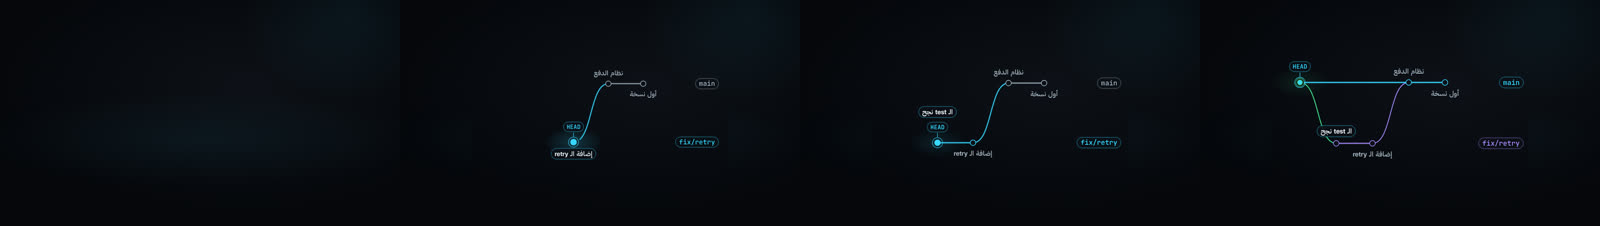
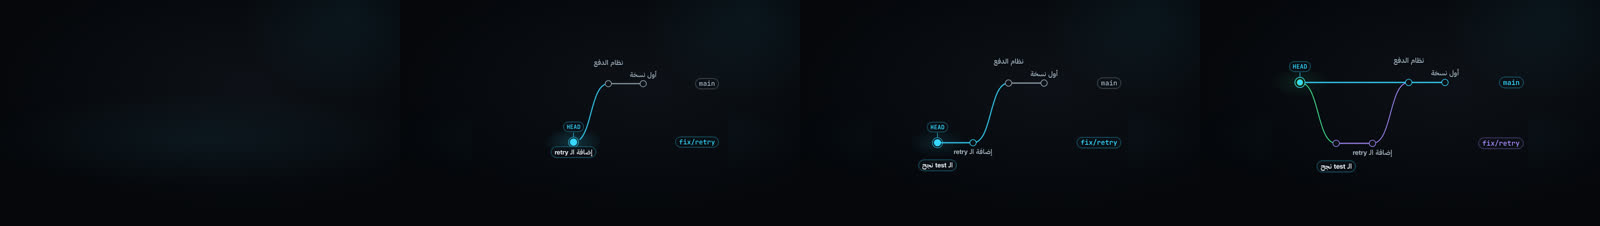
P7 struct-b: GitGraph finished (messages on outer lane side in two alternating rows, larger nodes; snap PASS det 0 qa 0, baselines pending-critic; perf lite 0.056 / standard 0.071 / hero 0.066 box s/frame; Arabic QA PASS)
Claude-Session: https://claude.ai/code/session_01VrU9wxU8GmuhdhWAAHnnQ8

diff --git a/studio/src/components/GitGraph/GitGraph.tsx b/studio/src/components/GitGraph/GitGraph.tsx
@@ -81,7 +81,12 @@ export const GitGraphView: React.FC<DcProps<Props>> = ({props, ctx}) => {
   const bandH = h / nl;
   const yOf = (k: number) => (k + 0.5) * bandH;
   const lblH = Math.round(SIZE.label * 1.7);
-  const roomy = bandH >= 2 * (lblH + 34) + 28 && 2 * colW - 40 >= 150;
+  // messages sit on the OUTER side of their lane (away from the fork / merge curves, which run between lanes); same-lane
+  // neighbours alternate near / far rows so two adjacent messages never overlap. Needs two rows of room above or below.
+  const roomy = bandH / 2 >= 22 + 2 * lblH + 4 && 2 * colW - 40 >= 150;
+  const laneIdx = new Map<string, number>();
+  tl.nodes.filter((n) => n.msg).forEach((n) => laneIdx.set(n.id, tl.nodes.filter((m) => m.msg && m.lane === n.lane).indexOf(n)));
+  const sideUp = (n: GNode) => (2 * n.lane < nl - 1 ? true : 2 * n.lane > nl - 1 ? false : n.col % 2 === 1);
   const k = 1 + ctx.mod.glow;
   const arrive = presetFrames('arrive', ctx.fps);
   const morph = presetFrames('morph', ctx.fps, true);
@@ -131,8 +136,8 @@ export const GitGraphView: React.FC<DcProps<Props>> = ({props, ctx}) => {
           const flash = n.merge ? 1 - prog(t, n.born + arrive, morph) : 0;
           return (
             <g key={n.id} transform={`translate(${x.toFixed(1)} ${y.toFixed(1)}) scale(${(0.5 + 0.5 * pop).toFixed(3)})`} opacity={Math.min(1, pop * 1.5)}>
-              {n.merge ? <Dot x={0} y={0} r={19} color={C.ok} fx={ctx.fx} k={0.5 + flash} ring={2} /> : null}
-              <Dot x={0} y={0} r={n.merge ? 11 : 13} color={n.merge ? C.ok : col} fill={n === newest ? col : undefined} fx={ctx.fx} k={(n === newest ? 1 : 0.45) * k} ring={3} />
+              {n.merge ? <Dot x={0} y={0} r={22} color={C.ok} fx={ctx.fx} k={0.5 + flash} ring={2} /> : null}
+              <Dot x={0} y={0} r={n.merge ? 13 : 15} color={n.merge ? C.ok : col} fill={n === newest ? col : undefined} fx={ctx.fx} k={(n === newest ? 1 : 0.45) * k} ring={3} />
             </g>
           );
         })}
@@ -177,9 +182,11 @@ export const GitGraphView: React.FC<DcProps<Props>> = ({props, ctx}) => {
         const lp = prog(t, n.born, presetFrames('label', ctx.fps));
         const x = xOf(n.col);
         const y = yOf(n.lane);
-        const up = roomy ? n.col % 2 === 1 : n.lane > 0 || nl === 1;
+        const up = sideUp(n);
+        const row = roomy ? (laneIdx.get(n.id) ?? 0) % 2 : 0;
         const pl = placeLabel(x, roomy ? 2 * colW - 40 : Math.min(w * 0.4, 4 * colW), w);
-        const off = up ? (hp && Math.abs(hp.x - x) < 4 && n.lane === headLane ? 64 + lblH : 30) : 30;
+        const headHere = !!hp && Math.abs(hp.x - x) < 4 && n.lane === headLane;
+        const off = (up && headHere ? 64 + lblH : 22) + row * (lblH + 4);
         return (
           <Lbl
             key={`m${i}`}

diff --git a/docs/p7/catalog_status/struct-b.md b/docs/p7/catalog_status/struct-b.md
@@ -1,0 +1,5 @@
+# P7 catalog status: group struct-b (Structure & flow)
+
+| Component | Status | Note |
+|---|---|---|
+| GitGraph | implemented | snap PASS det 0 qa 0 (pending-critic); perf box s/frame lite 0.056 / standard 0.071 / hero 0.066; qa arabic PASS; branching light-graph, messages on the outer side of each lane in two alternating rows, no numbers on screen |
